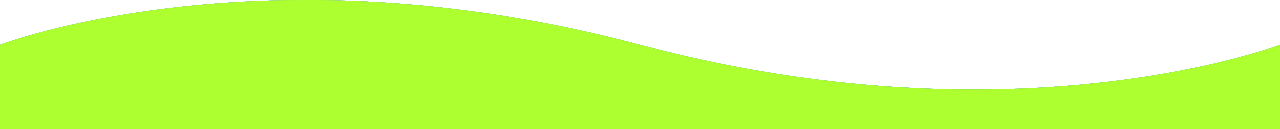
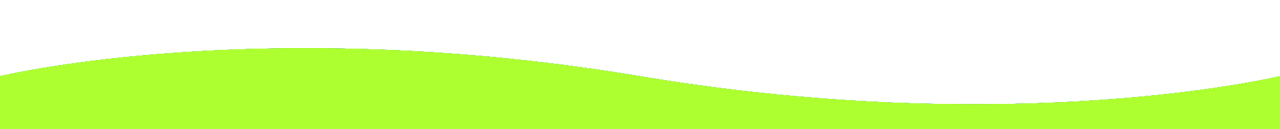
changes

Changed region(s): [[0.0, 0.0, 1.0, 0.8062]]

diff --git a/portfolio/src/components/Home/Home.js b/portfolio/src/components/Home/Home.js
@@ -4,7 +4,7 @@ import './Home.css'
 export default function Home() {
   useEffect(() => {
     // let stars = document.getElementById('stars');
-    let moon = document.getElementById('moon');
+    // let moon = document.getElementById('moon');
     let behind = document.getElementById('mountains_behind');
     let text = document.getElementById('text');
     // let btn = document.getElementById('homebtn');
@@ -13,7 +13,7 @@ export default function Home() {
     window.addEventListener('scroll',function(){
       let value = window.scrollY;
       // stars.style.left = value * 0.25 + 'px';
-      moon.style.top = value * 1.05 + 'px';
+      // moon.style.top = value * 1.05 + 'px';
       behind.style.bottom = value * 0 + 'px';
       mountains_front.style.bottom = value * 0 + 'px';
       text.style.marginRight = value * 4 + 'px';
@@ -29,11 +29,11 @@ export default function Home() {
       </script>
       <section className='asection'>
         {/* <img src="images/stars.png" id="stars"/> */}
-        <img src="static/images/sun.png" id="moon"/>
-        <img src="static/images/swb1.png" id="mountains_behind"/>
+        {/* <img src="static/images/sun.png" id="moon"/> */}
+        <img src="static/images/hotelback.png" id="mountains_behind"/>
         <h2 className="text" id="text">Global Group Of Company</h2>
         {/* <a href="#" id="homebtn">Explore</a> */}
-        <img src="static/images/front.png" id="mountains_front"/>
+        <img src="static/images/hotelfront.png" id="mountains_front"/>
       </section>
       <HomeContents/>
     </div>

diff --git a/portfolio/src/components/HomeContents/HomeContents.css b/portfolio/src/components/HomeContents/HomeContents.css
@@ -56,7 +56,7 @@
 #parallax-world-of-ugg h3 {
   font-family:'Oswald', sans-serif; 
  font-size:20px; 
- line-height:0; 
+ line-height:1; 
  font-weight:400; 
  letter-spacing:8px; 
  text-transform: uppercase; 
@@ -115,7 +115,7 @@
 /* Section - Block */
 /**************************/
 #parallax-world-of-ugg .block {
-  background: rgb(156, 156, 156); 
+  /* background: rgb(156, 156, 156);  */
  padding: 60px; 
  margin:0 auto; 
  text-align:justify; 
@@ -200,7 +200,7 @@ padding: 60px;
 
   #parallax-world-of-ugg .block {
     padding: 40px; 
- width:620px; 
+    width:620px; 
  
 }
  
@@ -209,7 +209,7 @@ padding: 60px;
 
   #parallax-world-of-ugg .block {
     padding: 30px; 
- width:420px; 
+    width:420px; 
  
 }
   #parallax-world-of-ugg h2 {
@@ -222,7 +222,7 @@ padding: 60px;
 }
   #parallax-world-of-ugg .parallax-one, #parallax-world-of-ugg .parallax-two, #parallax-world-of-ugg .parallax-three {
     padding-top:100px; 
- padding-bottom:100px; 
+    padding-bottom:100px; 
  
 }
  
@@ -230,9 +230,15 @@ padding: 60px;
 @media screen and (max-width: 479px) {
 
   #parallax-world-of-ugg .block {
-    padding: 30px 15px; 
- width:290px; 
- 
+    padding: 30px 15px;
+    width: auto;
+  }
+  #parallax-world-of-ugg p {
+    text-align: center;
+    font-size: 16px;
 }
+  #parallax-world-of-ugg h3{
+    letter-spacing: 0px;
+  }
  
 }

diff --git a/portfolio/src/components/Home/Home.css b/portfolio/src/components/Home/Home.css
@@ -13,7 +13,7 @@
 .asection::before{
     content: '';
     position: absolute;
-    bottom: 0;
+    top: 0;
     width: 100%;
     height: 100px;
     /* background: linear-gradient(to top,black,transparent); */
@@ -21,7 +21,7 @@
 }
 .asection img{
     position: absolute;
-    bottom: 0;
+    /* bottom: 0; */
     left: 0;
     width: 100%;
     height: 100%;
@@ -62,17 +62,17 @@ body{
     overflow-x: hidden;
 }
 @media screen and (max-width: 480px) {
-    .asection{
-        height: 50vh;
-    }
+    /* .asection{
+        height: 33vh;
+    } */
     #mountains_front,#mountains_behind{
         max-width: 100%;
-        height: auto;
+        /* height: auto; */
     }
     #text{
-        top:10%;
-        right: -37vh;
-        font-size: large;
+        font-size: x-large;
+        right: -50vh;
+        top: 16%;
     }
   }
 

diff --git a/portfolio/src/components/Header/Header.css b/portfolio/src/components/Header/Header.css
@@ -8,7 +8,7 @@
 	scroll-behavior: smooth;
 }
 :root{
-	--bg-color: #222327;
+	--bg-color: rgb(156, 156, 156); 
 	--text-color: #fff;
 	--main-color: greenyellow;
 }
